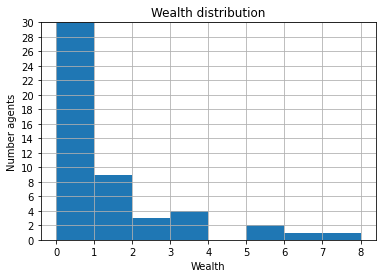
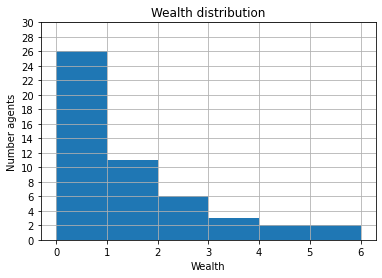
Update documentation

diff --git a/searchindex.js b/searchindex.js
@@ -1,1 +1,1 @@
-Search.setIndex({docnames:["docs/agent","docs/installation","docs/intro","docs/jupyter","docs/math","docs/ode","docs/pandas","docs/project","docs/python","docs/references"],envversion:{"sphinx.domains.c":2,"sphinx.domains.changeset":1,"sphinx.domains.citation":1,"sphinx.domains.cpp":3,"sphinx.domains.index":1,"sphinx.domains.javascript":2,"sphinx.domains.math":2,"sphinx.domains.python":2,"sphinx.domains.rst":2,"sphinx.domains.std":2,"sphinx.ext.intersphinx":1,"sphinxcontrib.bibtex":7,sphinx:56},filenames:["docs/agent.ipynb","docs/installation.md","docs/intro.md","docs/jupyter.ipynb","docs/math.md","docs/ode.ipynb","docs/pandas.ipynb","docs/project.md","docs/python.ipynb","docs/references.md"],objects:{},objnames:{},objtypes:{},terms:{"0000":0,"000000":6,"0001":5,"0002":8,"00233":9,"0160":[],"018":9,"0691":[],"07196":9,"0960":[],"0996":8,"100":[0,5,8],"1000":[5,8],"101":0,"1021":9,"1038":9,"1111":9,"1112":8,"1200":5,"125":9,"130":5,"1331":[],"1415":8,"145":9,"1457":[],"146":[],"1472":[],"162":8,"1751":9,"1960":4,"1998":9,"1pigvvn":9,"200":5,"2000":5,"2009":9,"2010":9,"2011":9,"2013":9,"2015":9,"2016":9,"2018":9,"20210722":8,"20210802":8,"2022":2,"2032":[],"205":8,"2191":[],"2408":[],"2456":[],"2688":0,"2899":[],"2903865095":[],"2980":[],"3000":5,"3016":[],"3058":[],"315":[],"3272":[],"3318":[],"3432":[],"3479":[],"350853":6,"3540":[],"3559":[],"3620":[],"3648":[],"3649":[],"365":5,"3671":[],"3736":[],"3843":[],"3944":0,"3952":[],"4024":0,"4031":[],"4104":[],"4122":[],"4179":[],"4200":[],"4224":[],"4232":[],"4488":[],"4744":[],"4760":[],"4799":[],"4840":[],"4968":[],"500":5,"5000":[0,5,8],"500000":6,"5070":8,"510":[],"515":[],"5160":[],"5171":[],"518":9,"518125a":9,"520":[],"5224":[],"536":[],"5376":[],"5489":[],"555":[],"560":[],"563":9,"5631":[],"5682":[],"572":9,"5780":[],"5830":[],"584":9,"5h8mb6gs32nbvf3w8cyqwrhm0000gn":[],"600":5,"6000":[],"670":[],"675":[],"681":[],"715":[],"717":[],"726":[],"730":[],"733":[],"736":8,"7413":[],"7729":[],"777":[],"7915":9,"7989":[],"800":5,"8068":[],"812":[],"8287":[],"842":[],"9190":[],"9991":[],"9999":8,"case":[5,8],"class":[0,4,5,6],"default":[1,5,8],"export":6,"f\u00f6r":7,"final":[0,2,3,5],"float":8,"function":[0,3,5,6],"import":[0,2,3,4,5,6],"int":[0,8],"long":7,"new":[1,7,8],"return":[0,5,8],"short":[5,7,8],"static":5,"super":0,"true":[0,5,6,8],"try":7,"v\u00e4gledn":7,"var":[],"while":[5,7],Axes:8,For:[5,8],Not:8,ODEs:2,One:[2,8],The:[0,1,2,4,5,6,7,8],Their:7,There:[0,4,5,8],These:[0,8],With:5,__init__:[0,5,8],a_list:8,abil:7,abm:[0,2,4],about:8,abov:[5,8],academia:7,access:[2,8],accomplish:[8,9],accord:[5,7,8],accumul:[0,5,8],act:[0,4],action:[0,7],activ:[1,7],adapt:4,add:0,addit:[1,5,6,8],adopt:[2,8],advanc:4,affect:4,after:[0,8],agent:[2,4,7,8],agent_df:0,agent_idx:0,agent_report:0,agent_wealth:0,agentid:0,air:5,alc_with_lowest_bp:8,alcohol:8,algorithm:8,alic:6,align:[4,5,8],alik:7,all:[0,2,4,7,8],allow:[0,1,2,3,5,6],allowfullscreen:[],almost:8,alpha:[4,5],alreadi:[7,8],also:[0,3,4,5,6,8],altern:[5,8],alwai:8,amount:[7,8],anaconda:1,analysi:[0,6,8,9],analyt:8,andersen:[7,9],ani:[2,7],anlys:6,anoth:5,appeal:4,appear:[4,5],append:5,applic:[3,4],approach:[2,4,5],approx:5,approxim:[5,7],arang:3,area:[2,8],arg:5,arguabl:2,argument:[5,8],around:[0,4],arrai:5,arrang:8,artist:8,as13:[2,7,9],ascend:6,associ:[5,8],asterisk:1,attribut:[0,8],author:[2,8],auto:8,automat:[6,8],autonom:0,autosc:8,avail:[2,3,5,8],averag:6,axes:5,axhlin:[3,6],axi:8,b_dict:8,back:4,bai98:[4,7,9],bailei:[4,7,9],bar:[6,8],barcontain:8,barh:8,barri:7,barstack:8,base:[1,2,4,7,8],basic:[2,4,5,8],bb1220:2,beatric:6,becom:[2,5],been:8,begin:[0,1,4,5],behav:[7,8],behavior:0,behaviour:4,belong:0,below:[0,3,8],benefit:[6,8],best:2,beta:[4,5],better:[2,5],between:[7,8],big:[0,5],bin:[0,8],biochem:[7,9],biolog:[4,5,7],biologi:[2,9],biologist:7,biotech:9,biotechnolog:[2,4,9],bit:1,blood:7,blueprint:8,bodi:7,boil:8,bone:7,book:[2,7,8],bool:8,bordel:9,both:[0,3,4],bottom:8,bp9701269:9,browser:[1,3],build:[0,4],built:[6,8],bygg:9,c6h11oh:8,c6h5:8,calcul:[0,8],call:[5,7],can:[0,1,3,4,5,6,7,8],cannot:8,canva:2,capit:8,catalyst:7,catalyz:7,categori:0,cb1020:2,cbn11:[4,7,9],ceasar:6,cell:[0,1,7,9],cellmat:0,cellular:7,celsiu:8,center:8,central:5,certain:[5,6],certifi:1,ch2oh:8,ch3:8,ch3oh:8,chanc:8,chang:[3,5],chapter:7,chart:8,checkpoint:3,chemic:[7,8],choh:8,choic:[0,2,5,8,9],choos:2,chosen:8,circ:5,circl:5,clean:6,clear:[4,8],cleft:7,code:[1,2,8],coeffici:[0,4],coher:8,collect:[4,5],collector:0,color:[0,3,6,8],column:[0,6,8],com:9,combin:[3,8],come:[1,3,5],comma:6,command:[1,3],comment:3,common:[7,8],commun:[7,8],compar:[3,8],comparison:[5,8],compart:7,complex:[4,7,8],compon:7,compos:4,compound:7,comput:[0,1,4,5,8,9],compute_gini:0,concern:[5,8],conda:1,conduct:[2,5],conjunct:8,connect:7,consid:5,constant:5,construct:6,constructor:8,contain:[0,1,3,5,7,8],contrast:7,contribut:[2,8],control:6,conveni:[5,8],convent:[3,8],convert:[0,3],copi:3,core:9,corei:8,cornerston:4,correspond:[5,6],cost:5,could:7,count:[6,8],counterpart:7,cours:[2,5,7],creat:[0,1,2,4,5,8],creation:8,cross:[0,7],csv:6,ctrl:3,cumul:8,current:0,cursor:3,cvijov:[4,7,9],cyclohexanol:8,d2u_dx2:5,d41586:9,dai:5,damp:5,dash:3,data1:8,data2:8,data:9,datacollect:0,datacollector:0,datafram:0,datapoint:8,dataset:8,date:[2,4],dator:9,david:6,death:5,decis:[2,4],decreas:5,deepen:2,def:[0,5,8],defin:[0,5,8],degre:8,delivar:2,delta:[4,5],denot:5,densiti:8,depend:[1,3],depict:5,deriv:[0,3,5],describ:[4,5,6,8],descript:[2,8],design:7,detail:[3,8],determin:[0,7],develop:[7,8],deviat:8,diagon:0,dictionari:8,dictonari:[6,8],did:5,diff:8,differ:[0,2,7,8],differenti:[2,4],difficult:4,diffus:[5,7],dimens:8,dimension:[5,8],direct:8,disciplinari:7,discret:5,discuss:2,diseas:[4,7],displai:[6,8],disposit:7,distinguish:7,distribut:[0,8],divid:[5,8],doan:8,doc:[1,2],document:[2,3],doi:9,doing:[3,5],dot:8,draw:8,drawn:8,drive:2,dropbox:2,dtype:[6,8],due:5,dydt:5,dynam:[4,5],each:[0,2,8],earli:4,eat:7,ecosystem:7,edg:8,edit:[2,3,9],effect:8,effici:8,either:8,element:[3,6,7,8],elementari:3,els:7,emb:[],empti:[0,8],enabl:[1,5,7,8],encapsul:8,end:[2,4,5,8],engin:[2,5,6,7,8,9],enter:[0,1,3],entiti:0,enumer:[0,8],env:1,environ:[1,4,7],enzym:7,epidemiolog:4,equal:[4,5,6,8],equat:[2,3,4],equip:8,erl:9,error:5,etc:[3,6,8],ethanol:8,euler_step:5,eva:9,even:8,everi:[0,2,5,7,8],everyth:[7,8],evid:5,evolut:5,exact:5,exam:6,examin:6,exampl:[2,5,8],excel:[6,7],except:8,exchang:7,excitatori:7,exclud:8,execut:[1,8],exemplifi:5,exhaust:2,exlibrisgroup:9,exp:[5,8],expect:[7,8],experi:[2,8],explain:[3,4],expos:0,extens:[3,8],extract:0,factor:8,factori:9,fals:[0,8],famili:5,famou:7,far:[2,3],farg:5,fast:8,faster:[7,8],favorit:8,feel:[7,8],few:1,field:4,fig:[3,5],fignam:8,figsiz:[3,5],figur:[3,5],file:[3,6,8],fill:[2,8],filter:8,final_wealth_df:0,find:[0,5,7,8],first:[0,5,6,7,8],fix:8,flexibl:8,float64:6,focal:2,focu:[2,4],folder:2,follow:[1,3,7,8],forest:4,forg:1,form:[2,3,7,8],format:[2,3,6,8],former:4,formula:8,fourth:5,frac:[0,4,5,8],fraction:8,frame:5,frame_numb:5,framebord:[],framework:0,free:[7,8],friction:5,from:[0,1,2,3,4,5,7,8],funcanim:5,further:[3,4],futur:[2,7,9],gamma:[4,5],gaussian:8,gca:[0,3,5,6,8],gener:[0,2,5,7,8],genrer:7,geometr:8,geometri:8,get:[1,3,5,8],get_agent_vars_datafram:0,get_cell_list_cont:0,get_model_vars_datafram:0,get_neighborhood:0,gini:0,github:9,give:[0,8],give_monei:0,given:[2,5,8],gledn:9,global:0,good:[2,5,7,8],googl:2,govern:0,gradual:5,granular:4,great:8,greater:[5,8],grid:[0,5,8],ground:7,group:[0,2,7],growth:5,guid:7,guidelin:2,half:8,handl:[0,6],harmon:5,has:[0,5,6,7,8],have:[2,3,7,8],head:[0,6],heattransferwal:5,height:[0,8],herod:[2,7,9],heurist:4,hierarch:2,high:8,higher:5,highli:8,hist2d:8,hist:[0,8],histogram:8,histogram_bin_edg:8,histtyp:8,hiv:7,hold:0,horizont:8,host:9,howev:[2,4,5,8],html:1,http:[1,9],human:3,hw29067qvwk:[],idea:8,ident:8,identifi:5,idxmax:0,ifram:[],ignor:8,iii:2,illustr:[4,5],imagin:8,implement:[0,2,3,5,8],includ:[0,1,3,7,8],include_cent:0,increas:[0,4,5],increment:8,independ:8,index:8,indic:[0,1,4],indispens:8,individu:[0,2,4,8],industri:[4,7,9],infect:7,infecti:4,inform:7,inhibitori:7,initi:5,ink:7,input:8,inspir:[4,7],instanc:[4,8],instanti:0,instead:8,integ:[0,8],integr:[5,8],intel:8,interact:[0,1,4,5,7],interest:7,interfac:[0,3],intermedi:5,interneuron:7,interpret:8,interv:[3,5],introduc:[3,5,7,8],introduct:[4,7,8,9],intuit:[2,8],invest:7,invit:[5,8],involv:5,ipykernel_51278:[],ipykernel_57799:[],ipykernel_57878:[],ipynb:3,isol:8,isopropanol:8,item:8,its:[0,3,5,7,8],itself:7,jake:[8,9],jakevdp:9,jame:9,javascript:0,jeffrei:9,jen:9,json:3,jupyt:[1,8,9],jupyterlab:1,k_1:5,k_2:5,k_3:5,k_4:5,keep:2,kei:[3,4,5,8],kept:8,kernel:8,keyword:8,kind:6,kinet:7,knowhow:7,knowledg:5,known:[5,8],kth:[2,9],kurslitteratur:9,kvalitet:9,kwarg:8,label:[5,8],lambda:5,landscap:0,languag:2,larg:[1,7,8],last:[0,8],latent:7,latest:1,launch:0,ldot:0,lead:7,leader:2,leadership:2,learn:[4,7],least:2,leav:3,left:8,legend:[5,8],len:[0,8],length:8,leq:[0,5],less:[5,8],let:[0,5,8],level:[0,7],librari:8,life:7,lightgrei:6,like:[6,7,8],limit:[2,4,5,6,7],limt:0,line2d:5,line:[1,3,5,6,8],linear:5,lineplot:8,linewidth:[3,8],link:3,linspac:5,linux:[1,8],list:[0,1,2,3,6,8],live:7,load:2,locat:8,log:[2,8],logic:8,loop:8,lotka:[4,5],lotka_volterra:5,lower:8,lowest:8,lowest_bp:8,maco:[1,8],macroscop:4,made:[2,4,5,8],magnitud:8,mai:[3,4,5,7,8],main:4,make:[2,3,4,5,7],makinng:4,mammal:7,manag:[0,1],mani:7,manipul:8,manner:3,mapl:[2,9],marija:9,mark:[1,2],markdown:3,mask:8,match:8,materi:[2,7],math:8,mathbf:5,mathemat:[2,3,5,7,8,9],matlab:[2,9],matmul:8,matplotlib:[0,1,3,5,6,8],matric:8,matrix:8,max:[0,6,8],max_wealth:0,maximum:0,mean:[2,5,6,8],mechan:5,mediat:7,medium:5,meet:2,member:[2,4,5],membership:8,membran:7,mentor:2,merg:[3,6],mesa:[1,8],metabol:7,metal:7,methanol:8,method:[0,2,3,6,8],metric:0,microbi:9,microscop:4,microsoft:[2,6],mid:8,min:[5,6,8],miniconda:1,minim:1,minor:2,minut:2,mixtur:7,mkl:8,mode:3,model:[2,7,8,9],model_df:0,model_report:0,moder:7,modern:4,modifi:1,modul:[0,3,6],modulenotfounderror:[],molecul:7,moneyag:0,moneymodel:0,moor:0,more:[3,4,5,8],most:[2,4,5,6,8],move:[0,9],move_ag:0,movement:7,much:7,mulitpl:8,multi:[2,8],multigrid:0,multipl:[0,1,8],multistep:7,must:8,myenv:1,name:[1,2,4,5,6,8],natur:[4,5,8,9],nbin:8,ndarrai:8,need:[2,5,7,8],neuron:7,neurotransmitt:7,never:8,new_posit:0,newtonian:5,nielsen:9,non:[0,8],none:8,nonliv:7,nontrivi:5,nonzero:0,normal:[7,8],note:8,notebook:[1,5,8,9],nov:[],now:1,num:5,num_ag:0,number:[0,1,4,8],number_el:5,numer:[4,8],numpi:[1,3,5,8],object:[5,6],observ:7,obtain:[2,5],obviou:4,obvious:8,occupi:7,occur:[0,7],och:9,odeint:5,offer:8,offic:2,omnipres:7,onc:7,one:[0,1,2,3,5,8],one_agent_wealth_df:0,onedr:2,ones:[5,8],onli:[1,5,7,8],open:[1,8],openmp:8,opportun:[5,9],optim:8,option:8,orbit:5,order:[0,5,8],ordinari:2,org:[],organ:[0,3,7],orient:5,oscil:5,other:[0,1,3,7,8],our:[0,5,7],out:[7,8],outcom:0,outlier:8,outsid:2,over:[5,8],overal:[0,7],overemphas:8,overleaf:2,packag:1,page:2,panda:[0,8],paragraph:3,paramet:[0,4,5,8],parametr:5,parasit:7,part:2,partial:5,particip:2,particl:[5,7],particular:[3,8],pass:[5,6,8],past:[3,9],patch:8,patches0:8,patches1:8,path_to_fil:6,pdf:[2,8],peer:2,per15:[8,9],per18:[8,9],per:[2,8],perform:[5,6,8],period:[5,7],perkel:9,permalink:9,permeas:7,person:2,phase:5,phenomena:[2,4,7],phenomenolog:4,phenylmethanol:8,pick:9,pip:1,place_ag:0,plai:5,platform:8,plot:3,plot_upd:5,plt:[0,3,5,6,8],plu:8,png:8,point:[2,5,6,8],polygon:8,popul:[0,4,5],portabl:2,pos:0,posit:[0,3,5],possibl:[7,8],possible_step:0,postsynapt:7,potenti:[7,8],power:[4,6],powershel:1,ppm:5,practic:[2,5,8],predat:[4,5],predatorpreymodel:5,predeifin:8,predict:4,prei:[4,5],preliminari:2,present:[2,5,8],press:3,presynapt:7,primo:9,principl:2,print:[0,6,8],probabl:8,problem:[7,8],process:[4,7],processor:8,product:[7,8],prog:9,program:[2,3,5,9],project:[2,8],projektarbet:[7,9],projektledn:9,promin:5,promot:4,prompt:1,propag:5,properti:[5,8],propog:5,proport:5,protein:7,prototyp:8,provid:[3,4,5,7,8],pseudo:8,pyplot:[0,3,5,6,8],python:[0,1,2,3,5,9],qquad:5,quad:5,question:7,quicker:7,quit:5,r_0:4,rais:8,rand:8,random:[0,7,8],randomactiv:0,randomli:[0,2],randrang:0,rang:[0,2,5,8],rate:[5,7],rather:8,ration:2,raw:8,reach:7,reaction:7,read:[6,8],read_excel:6,readabl:[3,8],readi:1,readili:[3,8],readthrough:7,real:7,recent:4,reciev:8,recommend:[1,8],record:[0,2,4],reduc:5,refer:[1,2,4,5,7,8],reflect:2,regener:7,regul:7,regular:0,reilli:9,rel:8,relat:[5,7],releas:7,relev:8,remain:[0,8],rememb:3,replac:5,report:2,repositori:1,repres:[4,5,8],reproduc:8,reproduct:4,requir:[0,5,7,8],reshap:[6,8],respect:[0,4,5],result:[3,5,6,8],retain:7,retriev:1,reveal:[5,8],revers:8,review:[2,4,7],rice:8,rich:2,right:8,righthand:8,risk:4,rk4:5,role:[2,5],ronald:9,routin:8,row:0,rule:[4,7],run:[1,3,5],rwidth:8,sai:6,same:[0,8],satur:7,save:[3,5,8],savefig:8,scalar:[5,8],scale:[4,8],schafer:8,schedul:0,scheme:5,schwenck:[7,9],scienc:[5,8],scientif:1,scientist:9,scipi:[1,5,8],scott:8,script:8,search:8,sec:5,second:[2,5,8,9],section:[0,3],see:[2,4,8],seed:8,seemingli:4,seen:5,select:[2,6,7],self:[0,2,5,8],semant:8,sens:[2,7],separ:[2,7,8],separatp:6,seper:3,sequenc:[0,8],sergio:9,seri:[0,8],serv:[5,7],server:0,set:[2,4,5,8],set_data:5,set_text:5,setp:[0,3,5,6,8],sever:[2,6,8],sh09:[2,7,9],shall:5,shape:8,share:[2,8],sheet1:6,sheet:[2,6],sheet_nam:6,shift:[3,8],shonkwil:[2,7,9],shorter:8,should:[1,2,5,8],show:[0,3,5,6,8],side:8,sight:5,sigma:8,signal:7,significantli:8,similar:7,simpl:8,simplest:7,simul:4,sin:[3,5],singl:[0,4,8],sit:7,skill:[2,7],skillset:7,slide:2,slower:8,slowli:7,small:1,smaller:[5,8],soft:7,softwar:[5,8],solid:5,solubl:7,solut:[2,8],solv:5,some:5,someon:8,sort:[0,6],sort_valu:6,sourc:[1,7,8],space:[0,5,7,8],span:7,specif:[0,7,8],specifi:[4,8],split:3,spread:4,spring:5,springer:9,sqrt:8,src:[],stabil:5,stabl:[5,8],stack:8,standard:[6,8],start:[0,1,3,8],state:[5,8],statement:[0,1,8],statist:6,std:[6,8],step:[0,5,8],step_idx:0,stepfil:8,stochast:4,stone:8,store:[5,8],str:8,straighforward:5,straightforward:5,strategi:8,strength:4,string:8,strongli:8,structur:0,student:[2,6,7,9],studentlitteratur:9,studi:[5,7],sturg:8,substrat:7,suggest:3,suit:2,sum:[0,7,8],sum_:0,summar:4,superior:5,support:[1,8],synapt:7,syntax:8,system:[0,1,4,5,7],t_0:5,t_insid:5,t_outsid:5,tab:3,tail:0,take:[2,5,7,8],target:2,task:8,team:[2,8],technic:2,teknik:9,temperatur:[5,7],tempt:8,tend:7,term:[5,8],termin:1,test:8,text:[5,8],than:[5,7,8],thei:[1,5,7],them:[0,2,7],themselv:0,thereaft:5,therefor:2,thermal:5,thi:[0,1,2,3,5,6,7],thick:5,think:7,third:5,those:[4,6,7],thought:6,thread:8,three:[0,2,3,7],thu:[2,5,7],time:[0,5,7,8],time_text:5,tissu:7,titl:[0,2,3,5,7,8],tn_cdi_springer_books_10_1007_978_0_387_70984_0:9,togeth:[5,8],tool:[0,2,6,8],top:8,topic:7,topolog:4,total:[0,8],tour:[8,9],toward:[2,8,9],traceback:[],track:[4,7],tradit:8,train:[2,7],transform:[5,7],transmembran:7,transmiss:7,transport:7,transpos:8,treat:[7,8],treatment:7,tree:4,triangl:8,trigger:7,trivial:5,tupl:8,turn:[3,5],turnov:7,tutori:8,twinx:5,two:[0,2,4,5,8],tyical:8,type:[3,7],typic:[1,4,5,7,8],uncatalyz:7,under:8,underli:[6,8],understand:[0,2],unequ:8,unfil:8,uniqu:3,unique_id:0,unit:0,unless:8,updat:5,upload:2,upon:2,upper:8,uptak:7,url:9,use:[0,2,3,4,5,7,8],used:[0,2,5,7,8],useful:[1,8],user:[2,5,8],uses:8,using:[0,2,3,6,8],usual:[5,8],vai:5,valu:[0,5,6,8],valuabl:7,van16:[8,9],vanderpla:[8,9],variabl:5,variat:5,variou:[4,7],vast:8,vector:8,veloc:5,veri:[2,5,7],versatil:2,version:[1,2],vertic:8,via:[3,8],video:8,viru:7,visual:[0,8],volterra:[4,5],w3school:8,wai:[6,8],walk:0,watch:8,water:7,weak:4,wealth:0,web:[1,3,8],websit:1,weight:8,welcom:2,well:[2,7],what:0,when:[5,8],where:[0,4,5,8],whether:7,which:[0,1,2,4,5,7,8],whirlwind:[8,9],whirlwindtourofpython:9,why:9,wide:[2,5],widespread:2,width:[0,8],window:[1,8],word:[0,8],work:[1,2,4,5,6,8],would:[6,8],wrangl:6,write:5,written:[1,3,4,5,7,8],www:9,x_i:0,xlabel:[0,3,5,8],xlim:[0,3,5,8],xls:6,xtick:0,xticklabel:6,y0_l:5,y_1:5,y_2:5,year:2,yet:2,yield:8,ylabel:[0,3,5,6,8],ylim:[0,3,5,8],you:[1,2,3,6,7,8],your:[0,1,2,3,6,7,8],youtub:[],ytick:0,zero:[5,8],zlib:1},titles:["Agent-based modeling","Software installation","Introduction","Jupyter notebook","Mathematical modeling","Differential equations","Pandas","Project work","Python for this course","References"],titleterms:{"class":8,"function":8,"import":8,ODE:5,ODEs:5,agent:0,analys:6,analysi:5,anim:5,arrai:8,auto:3,base:0,bonu:5,cell:3,code:3,collect:0,commun:2,complet:3,condit:8,content:2,cours:8,creat:6,data:[0,6,8],datafram:6,deliver:2,dictionari:6,differ:5,differenti:5,document:8,equat:5,essenti:3,euler:5,exampl:3,explicit:5,fdm:5,figur:8,finit:5,form:5,from:6,heat:5,help:8,implicit:5,instal:1,introduct:2,iter:8,jupyt:3,keyboard:3,kutta:5,librari:5,manipul:6,materi:5,mathemat:4,mesa:0,method:5,model:[0,4,5],modul:8,motiv:8,necess:8,notebook:3,numer:5,object:8,oper:8,ordinari:5,organ:2,orient:8,panda:6,plot:[0,5,6,8],program:8,project:7,propos:7,python:[6,8],refer:9,result:0,run:0,rung:5,shortcut:3,simul:0,softwar:1,solut:5,solver:5,some:8,spreadsheet:6,store:0,text:3,thi:8,through:5,tip:3,transfer:5,type:8,wall:5,work:7}})
+Search.setIndex({docnames:["docs/agent","docs/installation","docs/intro","docs/jupyter","docs/math","docs/ode","docs/pandas","docs/project","docs/python","docs/references"],envversion:{"sphinx.domains.c":2,"sphinx.domains.changeset":1,"sphinx.domains.citation":1,"sphinx.domains.cpp":3,"sphinx.domains.index":1,"sphinx.domains.javascript":2,"sphinx.domains.math":2,"sphinx.domains.python":2,"sphinx.domains.rst":2,"sphinx.domains.std":2,"sphinx.ext.intersphinx":1,"sphinxcontrib.bibtex":7,sphinx:56},filenames:["docs/agent.ipynb","docs/installation.md","docs/intro.md","docs/jupyter.ipynb","docs/math.md","docs/ode.ipynb","docs/pandas.ipynb","docs/project.md","docs/python.ipynb","docs/references.md"],objects:{},objnames:{},objtypes:{},terms:{"0000":0,"000000":6,"0001":5,"0002":8,"00233":9,"0160":[],"018":9,"0691":[],"07196":9,"0960":[],"0996":8,"100":[0,5,8],"1000":[5,8],"101":0,"1021":9,"1038":9,"1111":9,"1112":[],"1200":5,"125":9,"130":5,"1331":[],"1415":8,"145":9,"1457":[],"146":[],"1472":[],"162":8,"1751":9,"1960":4,"1998":9,"1pigvvn":9,"200":5,"2000":5,"2009":9,"2010":9,"2011":9,"2013":9,"2015":9,"2016":9,"2018":9,"20210722":8,"20210802":8,"2022":2,"2032":[],"205":8,"2191":[],"2408":[],"2456":[],"2688":0,"2899":[],"2903865095":[],"2980":[],"3000":5,"3016":[],"3058":[],"315":[],"3272":[],"3318":[],"3432":[],"3479":[],"350853":6,"3540":[],"3559":[],"3620":[],"3648":0,"3649":[],"365":5,"3671":[],"3736":[],"3843":[],"3944":[],"3952":[],"4024":[],"4031":[],"4104":[],"4122":[],"4136":0,"4179":[],"4200":[],"4224":0,"4232":[],"4488":[],"4744":[],"4760":[],"4799":[],"4840":[],"4968":[],"500":5,"5000":[0,5,8],"500000":6,"5070":[],"510":[],"515":[],"5160":[],"5171":[],"518":9,"518125a":9,"520":[],"5224":[],"536":[],"5376":[],"5489":[],"555":[],"560":[],"563":9,"5631":[],"5682":[],"572":9,"5780":[],"5830":[],"584":9,"5h8mb6gs32nbvf3w8cyqwrhm0000gn":[],"600":5,"6000":[],"6451":8,"670":[],"675":[],"681":[],"715":[],"717":[],"724":8,"726":[],"730":[],"733":[],"736":[],"7413":[],"7729":[],"777":[],"7915":9,"7989":[],"800":5,"8068":[],"812":[],"8287":[],"842":[],"8890":8,"9190":[],"9991":[],"9999":8,"case":[5,8],"class":[0,4,5,6],"default":[1,5,8],"export":6,"f\u00f6r":7,"final":[0,2,3,5],"float":8,"function":[0,3,5,6],"import":[0,2,3,4,5,6],"int":[0,8],"long":7,"new":[1,7,8],"return":[0,5,8],"short":[5,7,8],"static":5,"super":0,"true":[0,5,6,8],"try":7,"v\u00e4gledn":7,"var":[],"while":[5,7],Axes:8,For:[5,8],Not:8,ODEs:2,One:[2,8],The:[0,1,2,4,5,6,7,8],Their:7,There:[0,4,5,8],These:[0,8],With:5,__init__:[0,5,8],a_list:8,abil:7,abm:[0,2,4],about:8,abov:[5,8],academia:7,access:[2,8],accomplish:[8,9],accord:[5,7,8],accumul:[0,5,8],act:[0,4],action:[0,7],activ:[1,7],adapt:4,add:0,addit:[1,5,6,8],adopt:[2,8],advanc:4,affect:4,after:[0,8],agent:[2,4,7,8],agent_df:0,agent_idx:0,agent_report:0,agent_wealth:0,agentid:0,air:5,alc_with_lowest_bp:8,alcohol:8,algorithm:8,alic:6,align:[4,5,8],alik:7,all:[0,2,4,7,8],allow:[0,1,2,3,5,6],allowfullscreen:[],almost:8,alpha:[4,5],alreadi:[7,8],also:[0,3,4,5,6,8],altern:[5,8],alwai:8,amount:[7,8],anaconda:1,analysi:[0,6,8,9],analyt:8,andersen:[7,9],ani:[2,7],anlys:6,anoth:5,appeal:4,appear:[4,5],append:5,applic:[3,4],approach:[2,4,5],approx:5,approxim:[5,7],arang:3,area:[2,8],arg:5,arguabl:2,argument:[5,8],around:[0,4],arrai:5,arrang:8,artist:8,as13:[2,7,9],ascend:6,associ:[5,8],asterisk:1,attribut:[0,8],author:[2,8],auto:8,automat:[6,8],autonom:0,autosc:8,avail:[2,3,5,8],averag:6,axes:5,axhlin:[3,6],axi:8,b_dict:8,back:4,bai98:[4,7,9],bailei:[4,7,9],bar:[6,8],barcontain:8,barh:8,barri:7,barstack:8,base:[1,2,4,7,8],basic:[2,4,5,8],bb1220:2,beatric:6,becom:[2,5],been:8,begin:[0,1,4,5],behav:[7,8],behavior:0,behaviour:4,belong:0,below:[0,3,8],benefit:[6,8],best:2,beta:[4,5],better:[2,5],between:[7,8],big:[0,5],bin:[0,8],biochem:[7,9],biolog:[4,5,7],biologi:[2,9],biologist:7,biotech:9,biotechnolog:[2,4,9],bit:1,blood:7,blueprint:8,bodi:7,boil:8,bone:7,book:[2,7,8],bool:8,bordel:9,both:[0,3,4],bottom:8,bp9701269:9,browser:[1,3],build:[0,4],built:[6,8],bygg:9,c6h11oh:8,c6h5:8,calcul:[0,8],call:[5,7],can:[0,1,3,4,5,6,7,8],cannot:8,canva:2,capit:8,catalyst:7,catalyz:7,categori:0,cb1020:2,cbn11:[4,7,9],ceasar:6,cell:[0,1,7,9],cellmat:0,cellular:7,celsiu:8,center:8,central:5,certain:[5,6],certifi:1,ch2oh:8,ch3:8,ch3oh:8,chanc:8,chang:[3,5],chapter:7,chart:8,checkpoint:3,chemic:[7,8],choh:8,choic:[0,2,5,8,9],choos:2,chosen:8,circ:5,circl:5,clean:6,clear:[4,8],cleft:7,code:[1,2,8],coeffici:[0,4],coher:8,collect:[4,5],collector:0,color:[0,3,6,8],column:[0,6,8],com:9,combin:[3,8],come:[1,3,5],comma:6,command:[1,3],comment:3,common:[7,8],commun:[7,8],compar:[3,8],comparison:[5,8],compart:7,complex:[4,7,8],compon:7,compos:4,compound:7,comput:[0,1,4,5,8,9],compute_gini:0,concern:[5,8],conda:1,conduct:[2,5],conjunct:8,connect:7,consid:5,constant:5,construct:6,constructor:8,contain:[0,1,3,5,7,8],contrast:7,contribut:[2,8],control:6,conveni:[5,8],convent:[3,8],convert:[0,3],copi:3,core:9,corei:8,cornerston:4,correspond:[5,6],cost:5,could:7,count:[6,8],counterpart:7,cours:[2,5,7],creat:[0,1,2,4,5,8],creation:8,cross:[0,7],csv:6,ctrl:3,cumul:8,current:0,cursor:3,cvijov:[4,7,9],cyclohexanol:8,d2u_dx2:5,d41586:9,dai:5,damp:5,dash:3,data1:8,data2:8,data:9,datacollect:0,datacollector:0,datafram:0,datapoint:8,dataset:8,date:[2,4],dator:9,david:6,death:5,decis:[2,4],decreas:5,deepen:2,def:[0,5,8],defin:[0,5,8],degre:8,delivar:2,delta:[4,5],denot:5,densiti:8,depend:[1,3],depict:5,deriv:[0,3,5],describ:[4,5,6,8],descript:[2,8],design:7,detail:[3,8],determin:[0,7],develop:[7,8],deviat:8,diagon:0,dictionari:8,dictonari:[6,8],did:5,diff:8,differ:[0,2,7,8],differenti:[2,4],difficult:4,diffus:[5,7],dimens:8,dimension:[5,8],direct:8,disciplinari:7,discret:5,discuss:2,diseas:[4,7],displai:[6,8],disposit:7,distinguish:7,distribut:[0,8],divid:[5,8],doan:8,doc:[1,2],document:[2,3],doi:9,doing:[3,5],dot:8,draw:8,drawn:8,drive:2,dropbox:2,dtype:[6,8],due:5,dydt:5,dynam:[4,5],each:[0,2,8],earli:4,eat:7,ecosystem:7,edg:8,edit:[2,3,9],effect:8,effici:8,either:8,element:[3,6,7,8],elementari:3,els:7,emb:[],empti:[0,8],enabl:[1,5,7,8],encapsul:8,end:[2,4,5,8],engin:[2,5,6,7,8,9],enter:[0,1,3],entiti:0,enumer:[0,8],env:1,environ:[1,4,7],enzym:7,epidemiolog:4,equal:[4,5,6,8],equat:[2,3,4],equip:8,erl:9,error:5,etc:[3,6,8],ethanol:8,euler_step:5,eva:9,even:8,everi:[0,2,5,7,8],everyth:[7,8],evid:5,evolut:5,exact:5,exam:6,examin:6,exampl:[2,5,8],excel:[6,7],except:8,exchang:7,excitatori:7,exclud:8,execut:[1,8],exemplifi:5,exhaust:2,exlibrisgroup:9,exp:[5,8],expect:[7,8],experi:[2,8],explain:[3,4],expos:0,extens:[3,8],extract:0,factor:8,factori:9,fals:[0,8],famili:5,famou:7,far:[2,3],farg:5,fast:8,faster:[7,8],favorit:8,feel:[7,8],few:1,field:4,fig:[3,5],fignam:8,figsiz:[3,5],figur:[3,5],file:[3,6,8],fill:[2,8],filter:8,final_wealth_df:0,find:[0,5,7,8],first:[0,5,6,7,8],fix:8,flexibl:8,float64:6,focal:2,focu:[2,4],folder:2,follow:[1,3,7,8],forest:4,forg:1,form:[2,3,7,8],format:[2,3,6,8],former:4,formula:8,fourth:5,frac:[0,4,5,8],fraction:8,frame:5,frame_numb:5,framebord:[],framework:0,free:[7,8],friction:5,from:[0,1,2,3,4,5,7,8],funcanim:5,further:[3,4],futur:[2,7,9],gamma:[4,5],gaussian:8,gca:[0,3,5,6,8],gener:[0,2,5,7,8],genrer:7,geometr:8,geometri:8,get:[1,3,5,8],get_agent_vars_datafram:0,get_cell_list_cont:0,get_model_vars_datafram:0,get_neighborhood:0,gini:0,github:9,give:[0,8],give_monei:0,given:[2,5,8],gledn:9,global:0,good:[2,5,7,8],googl:2,govern:0,gradual:5,granular:4,great:8,greater:[5,8],grid:[0,5,8],ground:7,group:[0,2,7],growth:5,guid:7,guidelin:2,half:8,handl:[0,6],harmon:5,has:[0,5,6,7,8],have:[2,3,7,8],head:[0,6],heattransferwal:5,height:[0,8],herod:[2,7,9],heurist:4,hierarch:2,high:8,higher:5,highli:8,hist2d:8,hist:[0,8],histogram:8,histogram_bin_edg:8,histtyp:8,hiv:7,hold:0,horizont:8,host:9,howev:[2,4,5,8],html:1,http:[1,9],human:3,hw29067qvwk:[],idea:8,ident:8,identifi:5,idxmax:0,ifram:[],ignor:8,iii:2,illustr:[4,5],imagin:8,implement:[0,2,3,5,8],includ:[0,1,3,7,8],include_cent:0,increas:[0,4,5],increment:8,independ:8,index:8,indic:[0,1,4],indispens:8,individu:[0,2,4,8],industri:[4,7,9],infect:7,infecti:4,inform:7,inhibitori:7,initi:5,ink:7,input:8,inspir:[4,7],instanc:[4,8],instanti:0,instead:8,integ:[0,8],integr:[5,8],intel:8,interact:[0,1,4,5,7],interest:7,interfac:[0,3],intermedi:5,interneuron:7,interpret:8,interv:[3,5],introduc:[3,5,7,8],introduct:[4,7,8,9],intuit:[2,8],invest:7,invit:[5,8],involv:5,ipykernel_51278:[],ipykernel_57799:[],ipykernel_57878:[],ipynb:3,isol:8,isopropanol:8,item:8,its:[0,3,5,7,8],itself:7,jake:[8,9],jakevdp:9,jame:9,javascript:0,jeffrei:9,jen:9,json:3,jupyt:[1,8,9],jupyterlab:1,k_1:5,k_2:5,k_3:5,k_4:5,keep:2,kei:[3,4,5,8],kept:8,kernel:8,keyword:8,kind:6,kinet:7,knowhow:7,knowledg:5,known:[5,8],kth:[2,9],kurslitteratur:9,kvalitet:9,kwarg:8,label:[5,8],lambda:5,landscap:0,languag:2,larg:[1,7,8],last:[0,8],latent:7,latest:1,launch:0,ldot:0,lead:7,leader:2,leadership:2,learn:[4,7],least:2,leav:3,left:8,legend:[5,8],len:[0,8],length:8,leq:[0,5],less:[5,8],let:[0,5,8],level:[0,7],librari:8,life:7,lightgrei:6,like:[6,7,8],limit:[2,4,5,6,7],limt:0,line2d:5,line:[1,3,5,6,8],linear:5,lineplot:8,linewidth:[3,8],link:3,linspac:5,linux:[1,8],list:[0,1,2,3,6,8],live:7,load:2,locat:8,log:[2,8],logic:8,loop:8,lotka:[4,5],lotka_volterra:5,lower:8,lowest:8,lowest_bp:8,maco:[1,8],macroscop:4,made:[2,4,5,8],magnitud:8,mai:[3,4,5,7,8],main:4,make:[2,3,4,5,7],makinng:4,mammal:7,manag:[0,1],mani:7,manipul:8,manner:3,mapl:[2,9],marija:9,mark:[1,2],markdown:3,mask:8,match:8,materi:[2,7],math:8,mathbf:5,mathemat:[2,3,5,7,8,9],matlab:[2,9],matmul:8,matplotlib:[0,1,3,5,6,8],matric:8,matrix:8,max:[0,6,8],max_wealth:0,maximum:0,mean:[2,5,6,8],mechan:5,mediat:7,medium:5,meet:2,member:[2,4,5],membership:8,membran:7,mentor:2,merg:[3,6],mesa:[1,8],metabol:7,metal:7,methanol:8,method:[0,2,3,6,8],metric:0,microbi:9,microscop:4,microsoft:[2,6],mid:8,min:[5,6,8],miniconda:1,minim:1,minor:2,minut:2,mixtur:7,mkl:8,mode:3,model:[2,7,8,9],model_df:0,model_report:0,moder:7,modern:4,modifi:1,modul:[0,3,6],modulenotfounderror:[],molecul:7,moneyag:0,moneymodel:0,moor:0,more:[3,4,5,8],most:[2,4,5,6,8],move:[0,9],move_ag:0,movement:7,much:7,mulitpl:8,multi:[2,8],multigrid:0,multipl:[0,1,8],multistep:7,must:8,myenv:1,name:[1,2,4,5,6,8],natur:[4,5,8,9],nbin:8,ndarrai:8,need:[2,5,7,8],neuron:7,neurotransmitt:7,never:8,new_posit:0,newtonian:5,nielsen:9,non:[0,8],none:8,nonliv:7,nontrivi:5,nonzero:0,normal:[7,8],note:8,notebook:[1,5,8,9],nov:[],now:1,num:5,num_ag:0,number:[0,1,4,8],number_el:5,numer:[4,8],numpi:[1,3,5,8],object:[5,6],observ:7,obtain:[2,5],obviou:4,obvious:8,occupi:7,occur:[0,7],och:9,odeint:5,offer:8,offic:2,omnipres:7,onc:7,one:[0,1,2,3,5,8],one_agent_wealth_df:0,onedr:2,ones:[5,8],onli:[1,5,7,8],open:[1,8],openmp:8,opportun:[5,9],optim:8,option:8,orbit:5,order:[0,5,8],ordinari:2,org:[],organ:[0,3,7],orient:5,oscil:5,other:[0,1,3,7,8],our:[0,5,7],out:[7,8],outcom:0,outlier:8,outsid:2,over:[5,8],overal:[0,7],overemphas:8,overleaf:2,packag:1,page:2,panda:[0,8],paragraph:3,paramet:[0,4,5,8],parametr:5,parasit:7,part:2,partial:5,particip:2,particl:[5,7],particular:[3,8],pass:[5,6,8],past:[3,9],patch:8,patches0:8,patches1:8,path_to_fil:6,pdf:[2,8],peer:2,per15:[8,9],per18:[8,9],per:[2,8],perform:[5,6,8],period:[5,7],perkel:9,permalink:9,permeas:7,person:2,phase:5,phenomena:[2,4,7],phenomenolog:4,phenylmethanol:8,pick:9,pip:1,place_ag:0,plai:5,platform:8,plot:3,plot_upd:5,plt:[0,3,5,6,8],plu:8,png:8,point:[2,5,6,8],polygon:8,popul:[0,4,5],portabl:2,pos:0,posit:[0,3,5],possibl:[7,8],possible_step:0,postsynapt:7,potenti:[7,8],power:[4,6],powershel:1,ppm:5,practic:[2,5,8],predat:[4,5],predatorpreymodel:5,predeifin:8,predict:4,prei:[4,5],preliminari:2,present:[2,5,8],press:3,presynapt:7,primo:9,principl:2,print:[0,6,8],probabl:8,problem:[7,8],process:[4,7],processor:8,product:[7,8],prog:9,program:[2,3,5,9],project:[2,8],projektarbet:[7,9],projektledn:9,promin:5,promot:4,prompt:1,propag:5,properti:[5,8],propog:5,proport:5,protein:7,prototyp:8,provid:[3,4,5,7,8],pseudo:8,pyplot:[0,3,5,6,8],python:[0,1,2,3,5,9],qquad:5,quad:5,question:7,quicker:7,quit:5,r_0:4,rais:8,rand:8,random:[0,7,8],randomactiv:0,randomli:[0,2],randrang:0,rang:[0,2,5,8],rate:[5,7],rather:8,ration:2,raw:8,reach:7,reaction:7,read:[6,8],read_excel:6,readabl:[3,8],readi:1,readili:[3,8],readthrough:7,real:7,recent:4,reciev:8,recommend:[1,8],record:[0,2,4],reduc:5,refer:[1,2,4,5,7,8],reflect:2,regener:7,regul:7,regular:0,reilli:9,rel:8,relat:[5,7],releas:7,relev:8,remain:[0,8],rememb:3,replac:5,report:2,repositori:1,repres:[4,5,8],reproduc:8,reproduct:4,requir:[0,5,7,8],reshap:[6,8],respect:[0,4,5],result:[3,5,6,8],retain:7,retriev:1,reveal:[5,8],revers:8,review:[2,4,7],rice:8,rich:2,right:8,righthand:8,risk:4,rk4:5,role:[2,5],ronald:9,routin:8,row:0,rule:[4,7],run:[1,3,5],rwidth:8,sai:6,same:[0,8],satur:7,save:[3,5,8],savefig:8,scalar:[5,8],scale:[4,8],schafer:8,schedul:0,scheme:5,schwenck:[7,9],scienc:[5,8],scientif:1,scientist:9,scipi:[1,5,8],scott:8,script:8,search:8,sec:5,second:[2,5,8,9],section:[0,3],see:[2,4,8],seed:8,seemingli:4,seen:5,select:[2,6,7],self:[0,2,5,8],semant:8,sens:[2,7],separ:[2,7,8],separatp:6,seper:3,sequenc:[0,8],sergio:9,seri:[0,8],serv:[5,7],server:0,set:[2,4,5,8],set_data:5,set_text:5,setp:[0,3,5,6,8],sever:[2,6,8],sh09:[2,7,9],shall:5,shape:8,share:[2,8],sheet1:6,sheet:[2,6],sheet_nam:6,shift:[3,8],shonkwil:[2,7,9],shorter:8,should:[1,2,5,8],show:[0,3,5,6,8],side:8,sight:5,sigma:8,signal:7,significantli:8,similar:7,simpl:8,simplest:7,simul:4,sin:[3,5],singl:[0,4,8],sit:7,skill:[2,7],skillset:7,slide:2,slower:8,slowli:7,small:1,smaller:[5,8],soft:7,softwar:[5,8],solid:5,solubl:7,solut:[2,8],solv:5,some:5,someon:8,sort:[0,6],sort_valu:6,sourc:[1,7,8],space:[0,5,7,8],span:7,specif:[0,7,8],specifi:[4,8],split:3,spread:4,spring:5,springer:9,sqrt:8,src:[],stabil:5,stabl:[5,8],stack:8,standard:[6,8],start:[0,1,3,8],state:[5,8],statement:[0,1,8],statist:6,std:[6,8],step:[0,5,8],step_idx:0,stepfil:8,stochast:4,stone:8,store:[5,8],str:8,straighforward:5,straightforward:5,strategi:8,strength:4,string:8,strongli:8,structur:0,student:[2,6,7,9],studentlitteratur:9,studi:[5,7],sturg:8,substrat:7,suggest:3,suit:2,sum:[0,7,8],sum_:0,summar:4,superior:5,support:[1,8],synapt:7,syntax:8,system:[0,1,4,5,7],t_0:5,t_insid:5,t_outsid:5,tab:3,tail:0,take:[2,5,7,8],target:2,task:8,team:[2,8],technic:2,teknik:9,temperatur:[5,7],tempt:8,tend:7,term:[5,8],termin:1,test:8,text:[5,8],than:[5,7,8],thei:[1,5,7],them:[0,2,7],themselv:0,thereaft:5,therefor:2,thermal:5,thi:[0,1,2,3,5,6,7],thick:5,think:7,third:5,those:[4,6,7],thought:6,thread:8,three:[0,2,3,7],thu:[2,5,7],time:[0,5,7,8],time_text:5,tissu:7,titl:[0,2,3,5,7,8],tn_cdi_springer_books_10_1007_978_0_387_70984_0:9,togeth:[5,8],tool:[0,2,6,8],top:8,topic:7,topolog:4,total:[0,8],tour:[8,9],toward:[2,8,9],traceback:[],track:[4,7],tradit:8,train:[2,7],transform:[5,7],transmembran:7,transmiss:7,transport:7,transpos:8,treat:[7,8],treatment:7,tree:4,triangl:8,trigger:7,trivial:5,tupl:8,turn:[3,5],turnov:7,tutori:8,twinx:5,two:[0,2,4,5,8],tyical:8,type:[3,7],typic:[1,4,5,7,8],uncatalyz:7,under:8,underli:[6,8],understand:[0,2],unequ:8,unfil:8,uniqu:3,unique_id:0,unit:0,unless:8,updat:5,upload:2,upon:2,upper:8,uptak:7,url:9,use:[0,2,3,4,5,7,8],used:[0,2,5,7,8],useful:[1,8],user:[2,5,8],uses:8,using:[0,2,3,6,8],usual:[5,8],vai:5,valu:[0,5,6,8],valuabl:7,van16:[8,9],vanderpla:[8,9],variabl:5,variat:5,variou:[4,7],vast:8,vector:8,veloc:5,veri:[2,5,7],versatil:2,version:[1,2],vertic:8,via:[3,8],video:8,viru:7,visual:[0,8],volterra:[4,5],w3school:8,wai:[6,8],walk:0,watch:8,water:7,weak:4,wealth:0,web:[1,3,8],websit:1,weight:8,welcom:2,well:[2,7],what:0,when:[5,8],where:[0,4,5,8],whether:7,which:[0,1,2,4,5,7,8],whirlwind:[8,9],whirlwindtourofpython:9,why:9,wide:[2,5],widespread:2,width:[0,8],window:[1,8],word:[0,8],work:[1,2,4,5,6,8],would:[6,8],wrangl:6,write:5,written:[1,3,4,5,7,8],www:9,x_i:0,xlabel:[0,3,5,8],xlim:[0,3,5,8],xls:6,xtick:0,xticklabel:6,y0_l:5,y_1:5,y_2:5,year:2,yet:2,yield:8,ylabel:[0,3,5,6,8],ylim:[0,3,5,8],you:[1,2,3,6,7,8],your:[0,1,2,3,6,7,8],youtub:[],ytick:0,zero:[5,8],zlib:1},titles:["Agent-based modeling","Software installation","Introduction","Jupyter notebook","Mathematical modeling","Differential equations","Pandas","Project work","Python for this course","References"],titleterms:{"class":8,"function":8,"import":8,ODE:5,ODEs:5,agent:0,analys:6,analysi:5,anim:5,arrai:8,auto:3,base:0,bonu:5,cell:3,code:3,collect:0,commun:2,complet:3,condit:8,content:2,cours:8,creat:6,data:[0,6,8],datafram:6,deliver:2,dictionari:6,differ:5,differenti:5,document:8,equat:5,essenti:3,euler:5,exampl:3,explicit:5,fdm:5,figur:8,finit:5,form:5,from:6,heat:5,help:8,implicit:5,instal:1,introduct:2,iter:8,jupyt:3,keyboard:3,kutta:5,librari:5,manipul:6,materi:5,mathemat:4,mesa:0,method:5,model:[0,4,5],modul:8,motiv:8,necess:8,notebook:3,numer:5,object:8,oper:8,ordinari:5,organ:2,orient:8,panda:6,plot:[0,5,6,8],program:8,project:7,propos:7,python:[6,8],refer:9,result:0,run:0,rung:5,shortcut:3,simul:0,softwar:1,solut:5,solver:5,some:8,spreadsheet:6,store:0,text:3,thi:8,through:5,tip:3,transfer:5,type:8,wall:5,work:7}})

diff --git a/docs/agent.html b/docs/agent.html
@@ -484,15 +484,15 @@ N + 1 - \frac{2}{X} \sum_{i=1}^N (N+1-i) x_i
     </tr>
     <tr>
       <th>2</th>
-      <td>0.3944</td>
+      <td>0.3648</td>
     </tr>
     <tr>
       <th>3</th>
-      <td>0.3944</td>
+      <td>0.4224</td>
     </tr>
     <tr>
       <th>4</th>
-      <td>0.4024</td>
+      <td>0.4136</td>
     </tr>
   </tbody>
 </table>
@@ -540,7 +540,7 @@ N + 1 - \frac{2}{X} \sum_{i=1}^N (N+1-i) x_i
     </tr>
     <tr>
       <th>47</th>
-      <td>5</td>
+      <td>3</td>
     </tr>
     <tr>
       <th>48</th>
@@ -571,7 +571,7 @@ Step AgentID
 ...              ...
 99   45            0
      46            0
-     47            5
+     47            3
      48            0
      49            0
 
@@ -635,8 +635,8 @@ Step AgentID
 </div>
 </div>
 <div class="cell_output docutils container">
-<div class="output stream highlight-myst-ansi notranslate"><div class="highlight"><pre><span></span>Agent: 8
-Step: 99
+<div class="output stream highlight-myst-ansi notranslate"><div class="highlight"><pre><span></span>Agent: 6
+Step: 8
 </pre></div>
 </div>
 </div>

diff --git a/docs/python.html b/docs/python.html
@@ -594,10 +594,10 @@ Identity matrix:
 </div>
 </div>
 <div class="cell_output docutils container">
-<div class="output stream highlight-myst-ansi notranslate"><div class="highlight"><pre><span></span>  matmul:     1.5070 (ms)
+<div class="output stream highlight-myst-ansi notranslate"><div class="highlight"><pre><span></span>  matmul:     1.8890 (ms)
 </pre></div>
 </div>
-<div class="output stream highlight-myst-ansi notranslate"><div class="highlight"><pre><span></span>for loop:   736.1112 (ms)
+<div class="output stream highlight-myst-ansi notranslate"><div class="highlight"><pre><span></span>for loop:   724.6451 (ms)
 </pre></div>
 </div>
 </div>
